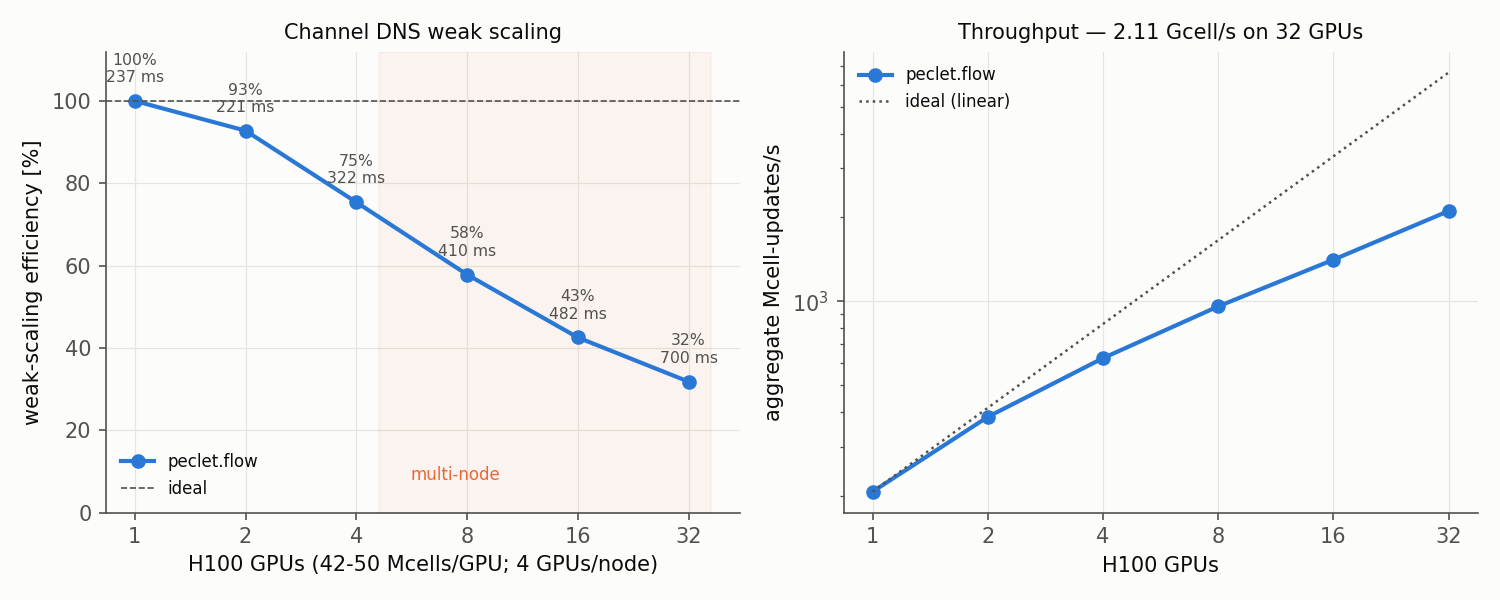
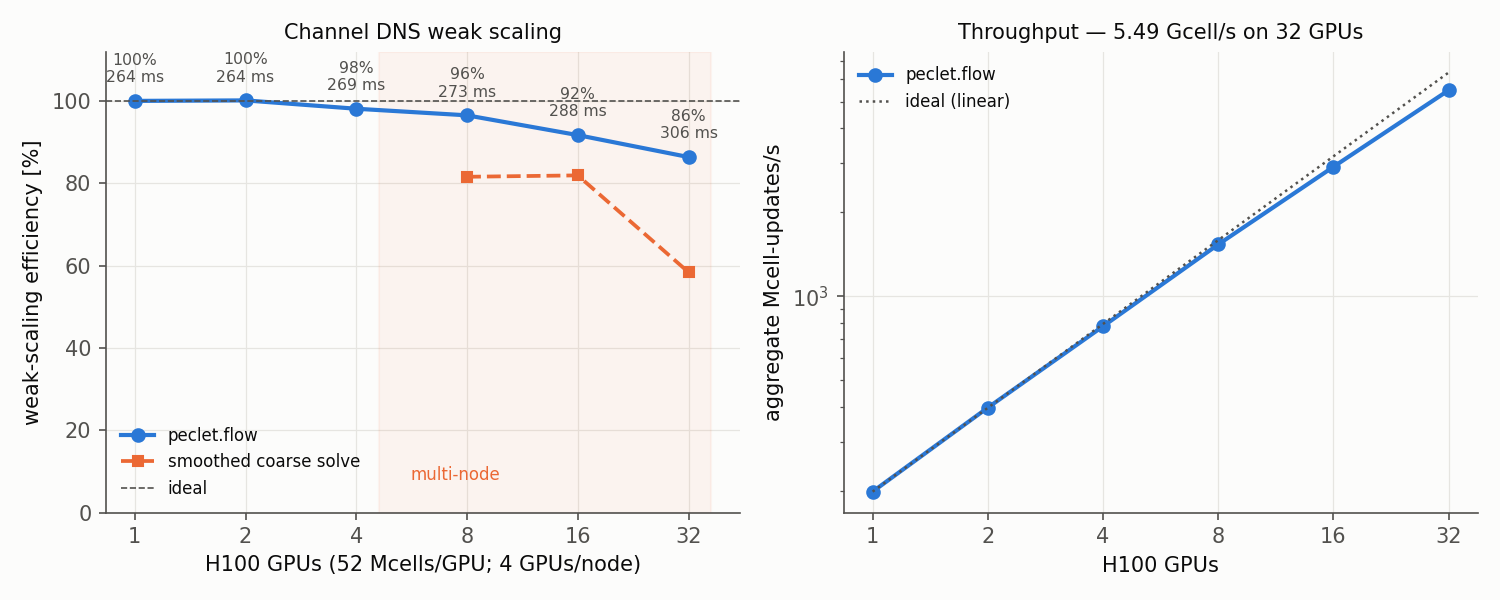
benchmarks/channel-scaling: the replicated ladder — 86 % at 32 GPUs, iterations pinned
Replicating one 1024x160x320 box (the MKM box at Delta+=2.25) alternately in the
two periodic directions holds exactly 52.4 M cells/GPU, identical per-cell
physics and an unchanged CPG force at every rung, so the curve measures parallel
efficiency rather than the problem getting harder:

  1/2/4/8/16/32 GPUs = 264/264/269/274/288/306 ms/step
                     = 100/100/98/96/92/86 % weak efficiency
                     = 5.49 Gcell-updates/s on 32 H100s
  pressure iterations = 6.00 at EVERY rung.

Running the identical ladder with the cheap smoothed coarse solve is the
controlled comparison and shows what pins them: 7.42/6.90/10.38 iterations at
8/16/32 GPUs, 58 % efficiency at 32, and the agglomerated bottom is 1.48x faster
there. A distributed geometric hierarchy bottoms out at about one cell per rank,
so at fixed cells/GPU the coarsest GLOBAL grid grows with the rank count and no
amount of requested depth helps; agglomerating that level and solving it exactly
is what makes the V-cycle domain-independent.

The residual 14 % at 32 GPUs is per-iteration cost, not iteration count:
predictor flat (23.1 -> 23.4 ms), projection doing the same 6 iterations at 15 %
more each (32.7 -> 37.5 ms/iteration), one extra momentum sweep, and global
reductions still only 0.02-0.86 % of the step with a constant count of 33.

The refinement ladder stays on the page as the other question a DNS user asks,
flagged explicitly as measured with the smoothed bottom and therefore an upper
[…]

diff --git a/benchmarks/channel-scaling/plot_scaling.py b/benchmarks/channel-scaling/plot_scaling.py
@@ -88,6 +88,17 @@ ax1.plot(N, eff, "o-", color=BLUE, lw=2, ms=6, label="peclet.flow")
 for n in N:  # every individual draw, as the honest spread
     for r in runs[n]:
         ax1.plot([n], [100 * (r["mcells_per_s"] / n) / tp[0]], "o", ms=3.5, mfc="none", mec=BLUE, mew=1)
+# controlled companion: the same rungs with the cheap smoothed coarse solve, where present
+comp = {}
+for n in N:
+    f = os.path.join(RES, f"{PREFIX}{n}_smoothed.json")
+    if os.path.exists(f):
+        d = json.load(open(f))
+        comp[n] = d["mcells_per_s"] / n
+if len(comp) >= 2:
+    cn = sorted(comp)
+    ax1.plot(cn, [100 * comp[n] / tp[0] for n in cn], "s--", color=ORANGE, lw=1.8, ms=5,
+             label="smoothed coarse solve")
 ax1.axhline(100, ls="--", c=INK2, lw=0.8, label="ideal")
 if max(N) > GPUS_PER_NODE:
     ax1.axvspan(GPUS_PER_NODE * 1.15, max(N) * 1.15, color=ORANGE, alpha=0.06)
@@ -141,11 +152,19 @@ ax1.grid(axis="x", visible=False)
 
 it = [med(runs[n], "pressure_iters_per_step") for n in N]
 ax2.plot(N, it, "o-", color=BLUE, lw=2, ms=6, label="pressure iterations / step")
+cit = {}
+for n in N:
+    f = os.path.join(RES, f"{PREFIX}{n}_smoothed.json")
+    if os.path.exists(f):
+        cit[n] = json.load(open(f))["pressure_iters_per_step"]
+if len(cit) >= 2:
+    ax2.plot(sorted(cit), [cit[n] for n in sorted(cit)], "s--", color=PINK, lw=1.8, ms=5,
+             label="... with a smoothed coarse solve")
 ax2.set_xscale("log", base=2)
 ax2.set_xticks(N, [str(n) for n in N])
 ax2.set_xlabel("H100 GPUs")
 ax2.set_ylabel("pressure iterations / step", color=BLUE)
-ax2.set_ylim(0, max(it) * 1.6)
+ax2.set_ylim(0, max(list(it) + list(cit.values())) * 1.5)
 ax2.set_title("Algorithm vs communication", fontsize=10)
 axb = ax2.twinx()
 axb.plot(N, [100 * (r + c) / m for r, c, m in zip(red, cfr, ms)], "s--", color=ORANGE, lw=1.8, ms=5)
